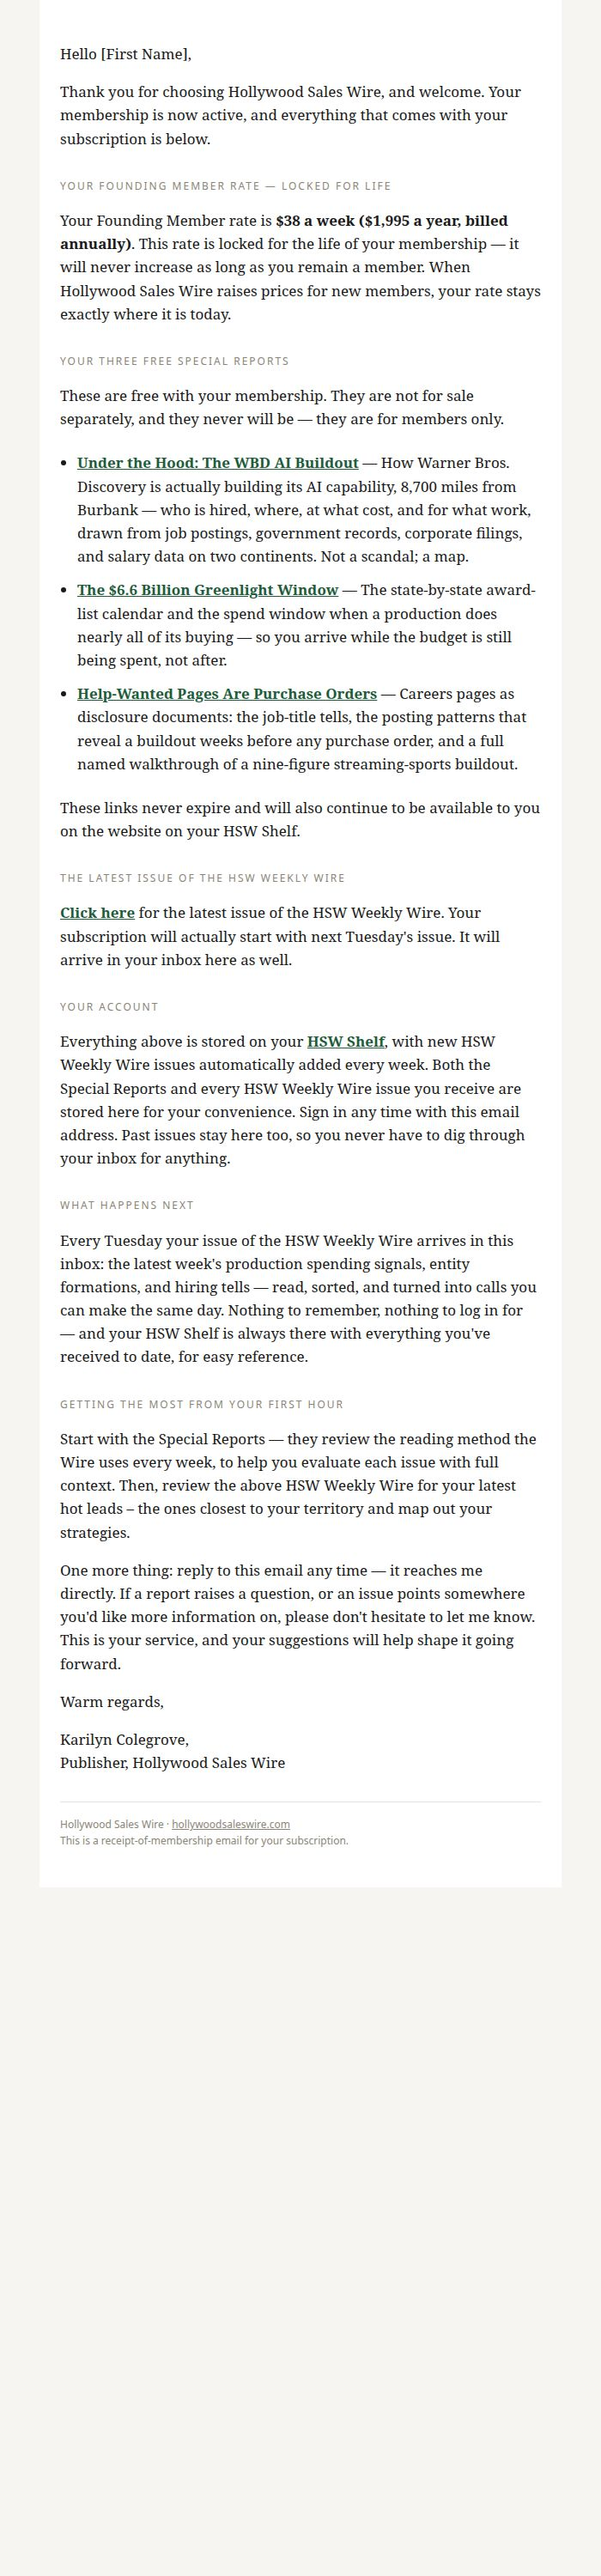
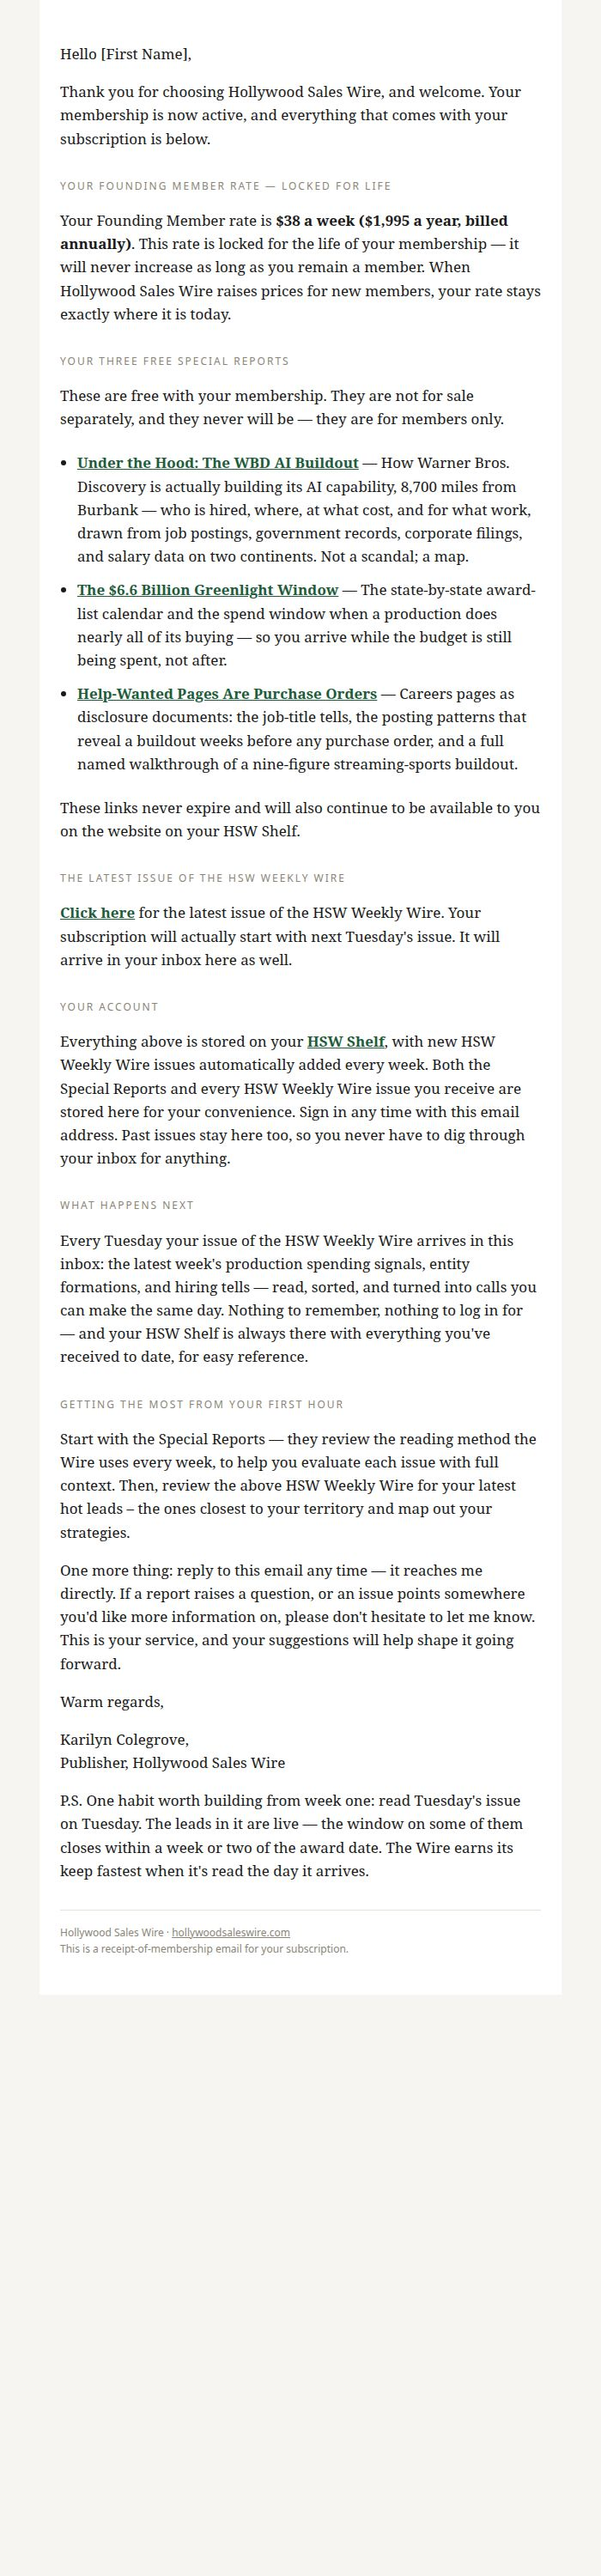
Add P.S. to founding member welcome email (read Tuesday on Tuesday)

Changed region(s): [[0.09, 0.682, 0.87, 0.744]]

diff --git a/artifacts/api-server/src/lib/members.ts b/artifacts/api-server/src/lib/members.ts
@@ -249,6 +249,7 @@ function welcomeHtml(
       ${p("One more thing: reply to this email any time — it reaches me directly. If a report raises a question, or an issue points somewhere you'd like more information on, please don't hesitate to let me know. This is your service, and your suggestions will help shape it going forward.")}
       ${p("Warm regards,")}
       ${p("Karilyn Colegrove,<br />Publisher, Hollywood Sales Wire")}
+      ${p("P.S. One habit worth building from week one: read Tuesday's issue on Tuesday. The leads in it are live — the window on some of them closes within a week or two of the award date. The Wire earns its keep fastest when it's read the day it arrives.")}
       <hr style="border:none;border-top:1px solid #e5e2da;margin:32px 0 16px;" />
       <p style="font-size:12px;color:#8a8577;font-family:Arial,sans-serif;">
         Hollywood Sales Wire &middot; <a href="${SITE_URL}" style="color:#8a8577;">hollywoodsaleswire.com</a><br />

diff --git a/marketing/welcome-email-preview.html b/marketing/welcome-email-preview.html
@@ -200,6 +200,7 @@
 
       <p>Warm regards,</p>
       <p>Karilyn Colegrove,<br />Publisher, Hollywood Sales Wire</p>
+      <p>P.S. One habit worth building from week one: read Tuesday's issue on Tuesday. The leads in it are live — the window on some of them closes within a week or two of the award date. The Wire earns its keep fastest when it's read the day it arrives.</p>
 
       <hr
         style="border: none; border-top: 1px solid #e5e2da; margin: 32px 0 16px"
